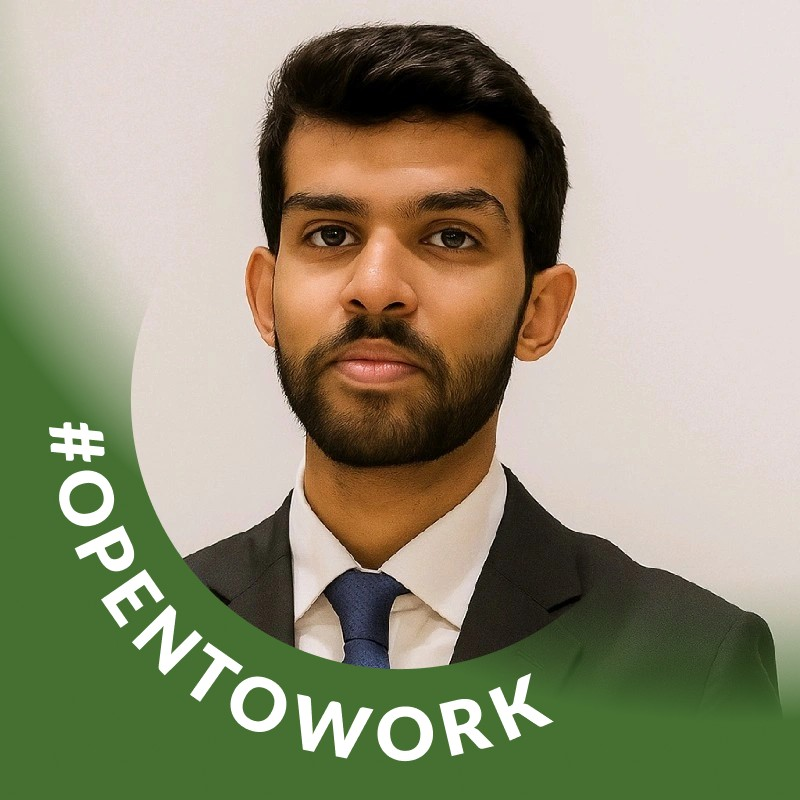
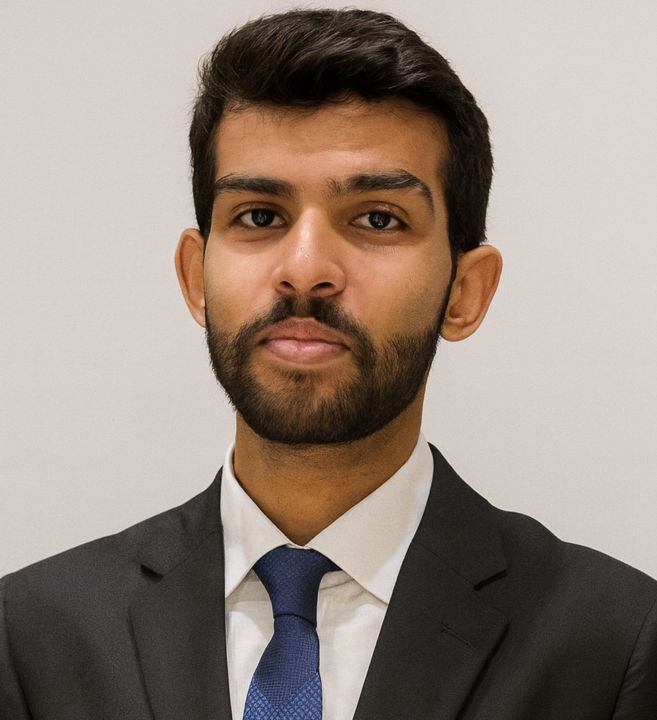
feat: redeployed team

diff --git a/app/team/page.tsx b/app/team/page.tsx
@@ -43,17 +43,17 @@ type TeamMember = {
 };
 
 const team: TeamMember[] = [
-	// {
-	// 	name: "Rana Darwich",
-	// 	position: "Founder",
-	// 	photo: "/team/rana.jpg",
-	// 	bio: "Rana founded VINdicated at 19 after a business law vocabulary word saved her from signing an arbitration clause at a dealership. What started as a personal breaking point became a mission: dismantle the systems that exploit consumers who walk onto a car lot without backup. She leads VINdicated's research initiatives and strategic direction — driven by the belief that car knowledge should be public knowledge.",
-	// },
+	{
+		name: "Rana Darwich",
+		position: "Founder",
+		photo: "/team/rana.jpg",
+		bio: "Rana founded VINdicated at 19 after a business law vocabulary word saved her from signing a predatory arbitration clause at a dealership. What started as a personal breaking point became a mission to dismantle the systems that exploit consumers who walk onto a car lot without backup. She leads VINdicated's research initiatives and strategic direction, driven by the belief that car knowledge should be public knowledge.",
+	},
 	{
 		name: "Rizwaan Bana",
-		position: "Project Manager",
+		position: "Software Lead",
 		photo: "/team/rizwaan.jpg",
-		bio: "Rizwaan Bana is a Computer Science major at UCLA. He is the Project Manager at VINdicated, where he builds tools to help consumers navigate the car-buying process without friction. Rizwaan is passionate about using technology to create positive change and making information more accessible for everyone.",
+		bio: "Rizwaan Bana is a Computer Science major at UCLA. He is the Software Lead at VINdicated, where he builds tools to help consumers navigate the car-buying process without friction. Rizwaan is passionate about using technology to create positive change and making information more accessible for everyone.",
 		socials: [
 			{
 				platform: "linkedin",
@@ -86,6 +86,12 @@ const team: TeamMember[] = [
 		position: "Design Lead",
 		photo: "/team/malia.jpg",
 		bio: "Malia LaVoie is the Design Lead at VINdicated. As a Computer Science and Psychology double major at NYU, she combines technical skill with human-centered design to create intuitive, user-friendly experiences that make automotive rights more accessible and easier to understand.",
+	},
+	{
+		name: "Evanceline Tang",
+		position: "Visual Design Lead",
+		photo: "/team/evanceline.jpg",
+		bio: "Evanceline is a second year biology major at UCLA. She is passionate about using art and design as a mean of conveying messages. Through her art, she hopes to help people understand more about VINdicated and the existing inequalities and dangers in the automotive industry.",
 	},
 	{
 		name: "Halima Cherif Hminat",
@@ -128,6 +134,12 @@ const team: TeamMember[] = [
 		position: "Research Analyst",
 		photo: "/team/ayat.png",
 		bio: "Ayat Ashraf is a Math/Econ major at UCLA interested in economic policymaking. She does research at VINdicated, so she can hopefully buy a car without calling her dad 8,000 times in the future.",
+	},
+	{
+		name: "Paul Ha",
+		position: "Research Analyst",
+		photo: "/team/paul.png",
+		bio: "Paul is a first-year student at UC Berkeley planning to major in Integrative Biology on a pre-dental track. He is excited to contribute to making reliable information more accessible and supporting people who may face unfair practices in the auto industry.",
 	},
 	{
 		name: "Catherine Wong",
@@ -241,12 +253,12 @@ export default function TeamPage() {
 					{team.map((member, i) => (
 						<FadeUp key={member.name}>
 								<div
-									className="grid gap-12 items-center py-16 max-lg:grid-cols-1 max-lg:gap-8 max-lg:py-10"
-									style={{ gridTemplateColumns: "320px 1fr auto" }}
+									className="grid gap-10 items-center py-12 max-lg:grid-cols-1 max-lg:gap-6 max-lg:py-8"
+									style={{ gridTemplateColumns: "280px 1fr auto" }}
 								>
 									{/* Photo */}
 									<div
-										className="relative w-full max-lg:w-60 max-lg:mx-auto"
+										className="relative w-full max-lg:w-52 max-lg:mx-auto"
 										style={{ aspectRatio: "1 / 1" }}
 									>
 										<div
@@ -261,7 +273,7 @@ export default function TeamPage() {
 												alt={member.name}
 												fill
 												className="object-cover"
-												sizes="(max-width: 1024px) 240px, 320px"
+												sizes="(max-width: 1024px) 208px, 280px"
 											/>
 										</div>
 										{/* Accent line */}
@@ -279,10 +291,10 @@ export default function TeamPage() {
 										>
 											{member.position}
 										</p>
-										<h3 className="text-[clamp(2rem,4vw,3.2rem)] font-black leading-[1.05] tracking-tight mb-6">
+										<h3 className="text-[clamp(1.8rem,3.5vw,2.8rem)] font-black leading-[1.05] tracking-tight mb-5">
 											{member.name}
 										</h3>
-										<p className="text-[1.05rem] text-white/80 leading-[1.8] max-w-[600px]">
+										<p className="text-[0.95rem] text-white/80 leading-[1.75] max-w-[560px]">
 											{member.bio}
 										</p>
 									</div>

diff --git a/components/layout/Nav.tsx b/components/layout/Nav.tsx
@@ -36,7 +36,7 @@ export function Nav() {
 
   return (
     <nav
-      className="fixed top-0 left-0 right-0 z-[100] flex items-center justify-between px-12 py-[1.1rem] border-b border-white/[0.08] backdrop-blur-xl transition-all duration-300"
+      className="fixed top-0 left-0 right-0 z-[100] flex items-center justify-between px-18 py-[1.1rem] border-b border-white/[0.08] backdrop-blur-xl transition-all duration-300"
       style={{
         background: scrolled ? "rgba(13,10,20,0.97)" : "rgba(13,10,20,0.85)",
       }}
@@ -51,10 +51,9 @@ export function Nav() {
           className="h-[52px] w-auto object-contain"
         />
         <span
-          className="text-[1.3rem] font-bold tracking-tight"
-          style={{ color: "var(--color-light)" }}
+          className="text-2xl font-bold tracking-tight text-white"
         >
-          <span className="font-extrabold">VIN</span>dicated
+          <span className="font-extrabold text-(--color-light)">VIN</span>dicated
         </span>
       </Link>
 

diff --git a/lib/constants.ts b/lib/constants.ts
@@ -28,7 +28,7 @@ export const navLinks = [
       { label: "What We Provide", href: "/about#vindicated-from" },
     ],
   },
-//   { label: "Team", href: "/team" },
+  { label: "Team", href: "/team" },
   {
     label: "Inspection Guide",
     href: "/inspection",
@@ -79,7 +79,7 @@ export const footerNav = [
     links: [
       { label: "Home", href: "/" },
       { label: "About Us", href: "/about" },
-    //   { label: "Team", href: "/team" },
+      { label: "Team", href: "/team" },
       { label: "Documents", href: "/documents" },
       { label: "Contact", href: "/contact" },
     ],